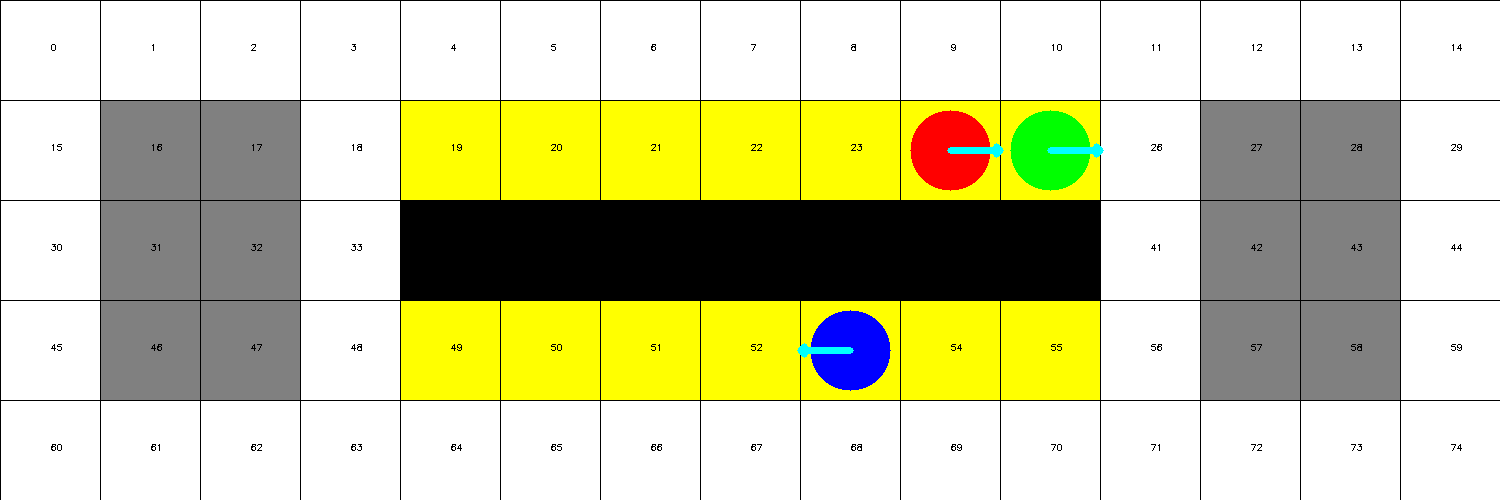
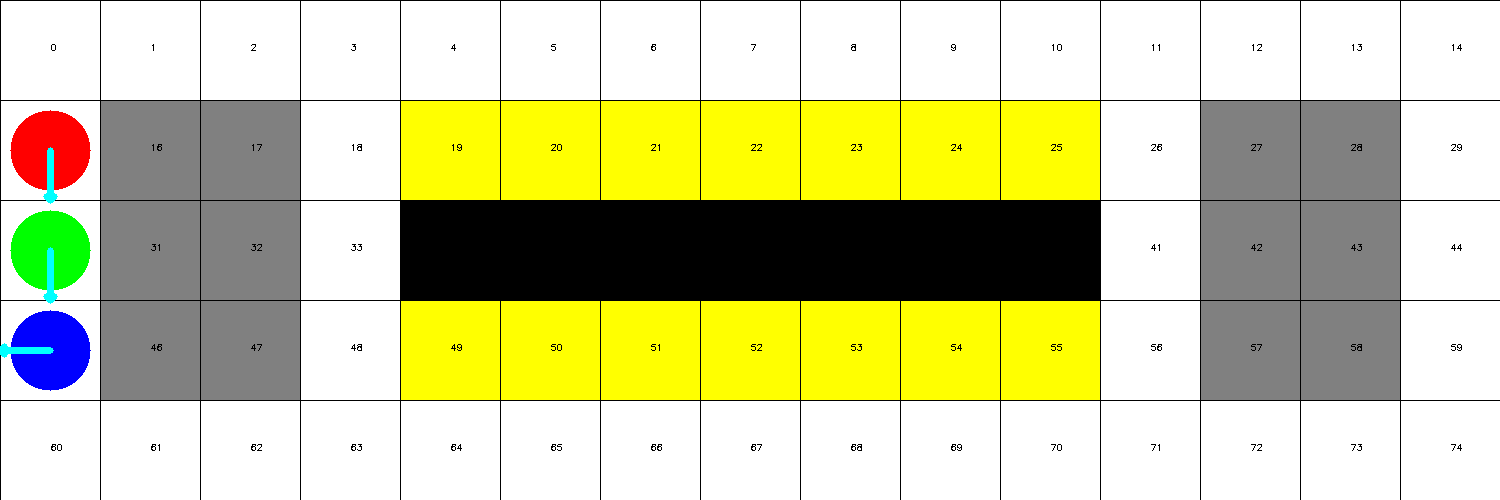
update

Changed region(s): [[0.0, 0.21, 0.0613, 0.78], [0.5827, 0.21, 0.736, 0.39], [0.5213, 0.6, 0.6133, 0.78]]

diff --git a/view.py b/view.py
@@ -35,7 +35,7 @@ def draw_map_with_grid(image):
             cv2.rectangle(image, top_left, bottom_right, (0, 0, 0), 1)  # 枠線を描画
 
             # セルの中央に一次元インデックスを描画
-            index = y * width + x
+            index = y * width + x - 1
             center = (int((top_left[0] + bottom_right[0]) / 2), int((top_left[1] + bottom_right[1]) / 2))
             cv2.putText(image, str(index), center, cv2.FONT_HERSHEY_SIMPLEX, 0.3, (0, 0, 0), 1)
 
